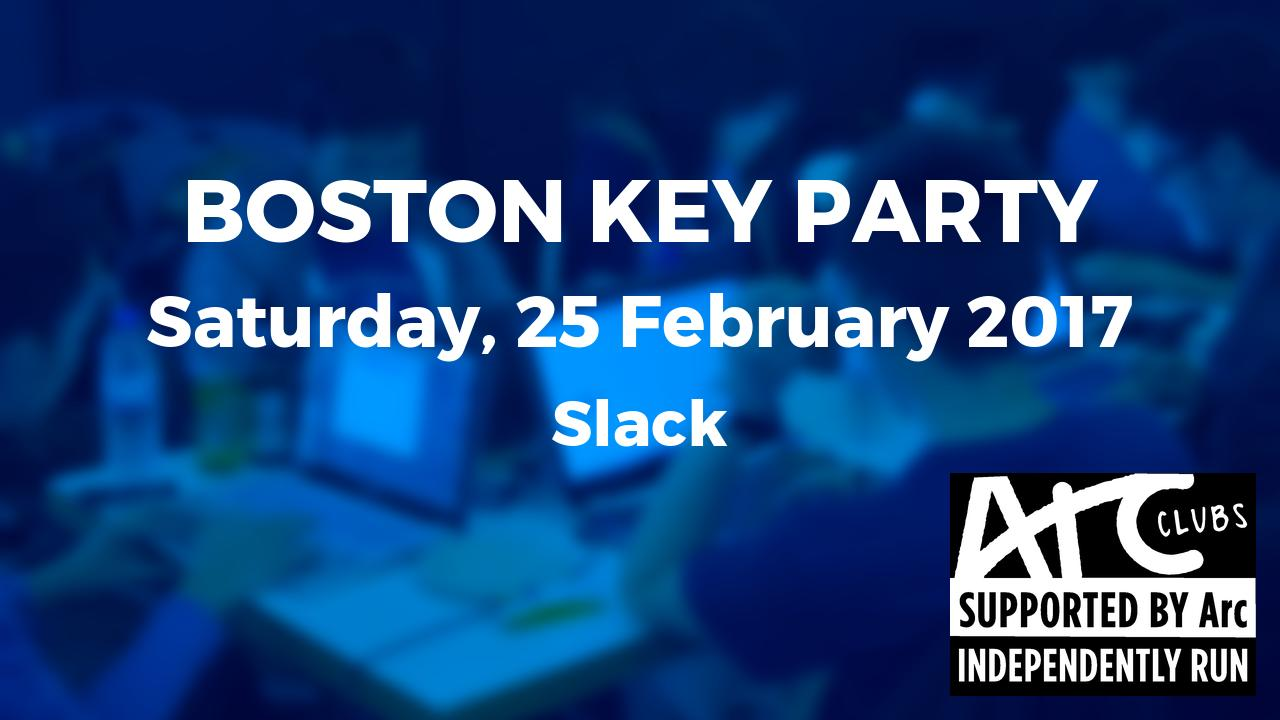
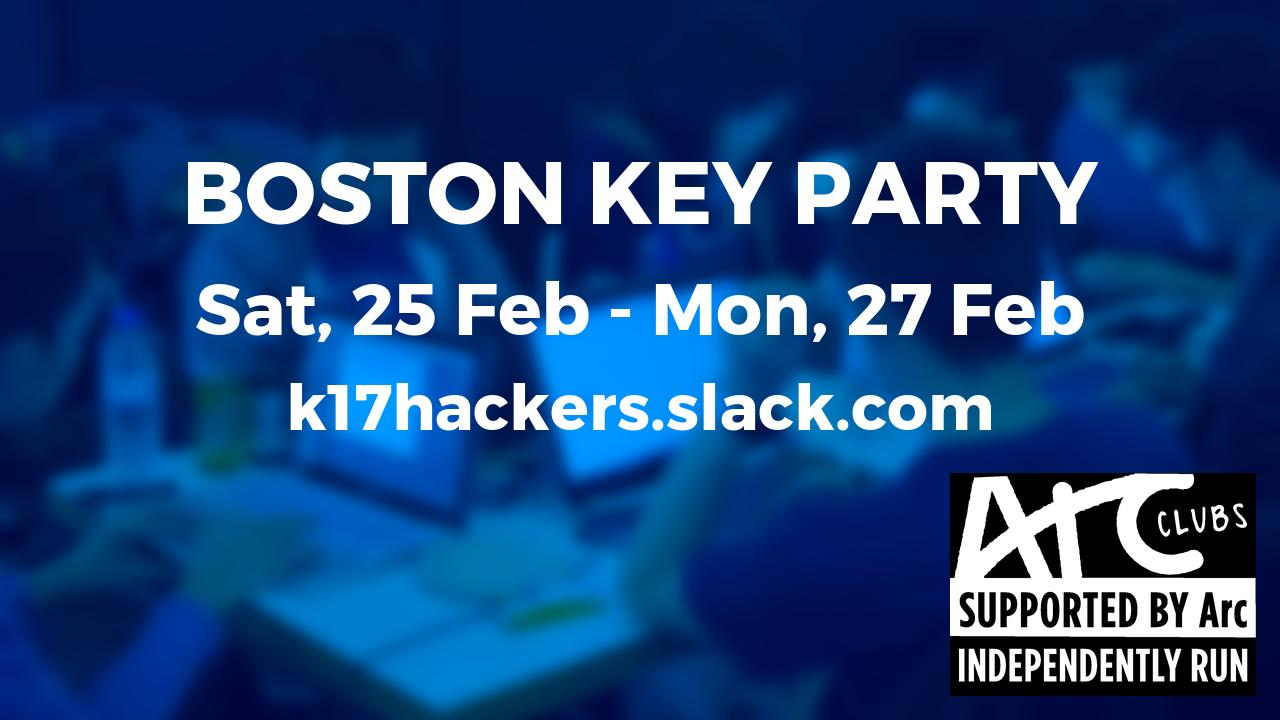
Added location to event images

Changed region(s): [[0.125, 0.2139, 0.875, 0.3361], [0.0938, 0.3667, 0.9062, 0.5194], [0.2188, 0.5194, 0.7812, 0.6417]]

diff --git a/event_images.py b/event_images.py
@@ -118,10 +118,16 @@ def get_logo(logo_src, logo_scale):
 
     return logo.resize(scale, Image.LANCZOS)
 
-def date_string(original):
+def date_string(original, small=False):
     """Get a pretty date string"""
+
+    if small:
+        fmt = "%a, %-d %b"
+    else:
+        fmt = "%A, %-d %B %Y"
+
     date = datetime.strptime(original, "%Y-%m-%dT%H:%M")
-    return date.strftime("%A, %-d %B %Y")
+    return date.strftime(fmt)
 
 def center(image_size, block_size):
     return tuple([(image_size[n] - block_size[n]) / 2 for n in xrange(len(image_size))])
@@ -136,19 +142,24 @@ def render_header(event):
     # Get event title
     title_text = event["title"].upper()
     title_size = MONTSERRAT_TITLE.getsize(title_text)
-    title_pos = shift(center(image.size, title_size), (0, -160))
+    title_pos = shift(center(image.size, title_size), (0, -178))
     draw.text(title_pos, title_text, font=MONTSERRAT_TITLE)
 
     # Get event date
+    date_start = date_string(event["start"], True)
+    date_end = date_string(event["end"], True)
     date_text = date_string(event["start"])
+    if date_start != date_end:
+        date_text = "{} - {}".format(date_start, date_end)
+
     date_size = MONTSERRAT_DATE.getsize(date_text)
-    date_pos = shift(center(image.size, date_size), (0, -40))
+    date_pos = shift(center(image.size, date_size), (0, -56))
     draw.text(date_pos, date_text, font=MONTSERRAT_DATE)
 
     # Get event location
     event_text = event["location"]
     event_size = MONTSERRAT_LOCATION.getsize(event_text)
-    event_pos = shift(center(image.size, event_size), (0, 56))
+    event_pos = shift(center(image.size, event_size), (0, 40))
     draw.text(event_pos, event_text, font=MONTSERRAT_LOCATION)
 
     # Add ARC logo

diff --git a/_events/17s1-w07-XCTF.md b/_events/17s1-w07-XCTF.md
@@ -2,7 +2,7 @@
 title: XCTF
 start: 2017-04-15T12:00
 end: 2017-04-17T12:00
-location: Slack
+location: k17hackers.slack.com
 slack: ctfs
 type: ctf
 facebook: https://www.facebook.com/events/1822028788120622/

diff --git a/_events/2017-02-25-boston-key-party.md b/_events/2017-02-25-boston-key-party.md
@@ -4,7 +4,7 @@ start: 2017-02-25T12:00
 end: 2017-02-27T12:00
 type: ctf
 image: assets/events/2017-02-25-boston-key-party.jpg
-location: Slack
+location: k17hackers.slack.com
 slack: ctfs
 ---
 

diff --git a/_events/2017-04-02-dragonsector-ctf.md b/_events/2017-04-02-dragonsector-ctf.md
@@ -4,7 +4,7 @@ start: 2017-04-02T08:30
 end: 2017-04-03T08:30
 type: ctf
 image: assets/events/2017-04-02-dragonsector-ctf.jpg
-location: Slack
+location: k17hackers.slack.com
 slack: ctfs
 ---
 

diff --git a/_events/2017-03-14-easyctf.md b/_events/2017-03-14-easyctf.md
@@ -4,7 +4,7 @@ start: 2017-03-14T11:00
 end: 2017-03-21T11:00
 type: ctf
 image: assets/events/2017-03-14-easyctf.jpg
-location: Slack
+location: k17hackers.slack.com
 slack: ctfs
 ---
 

diff --git a/_events/2017-03-31-picoctf.md b/_events/2017-03-31-picoctf.md
@@ -4,7 +4,7 @@ start: 2017-03-31T16:00
 end: 2017-04-15T09:59
 type: ctf
 image: assets/events/2017-03-31-picoctf.jpg
-location: Slack
+location: k17hackers.slack.com
 slack: ctfs
 ---
 

diff --git a/_events/2017-03-04-ictf.md b/_events/2017-03-04-ictf.md
@@ -4,7 +4,7 @@ start: 2017-03-04T07:00
 end: 2017-03-05T07:00
 type: ctf
 image: assets/events/2017-03-04-ictf.jpg
-location: Slack
+location: k17hackers.slack.com
 slack: ctfs
 ---
 
